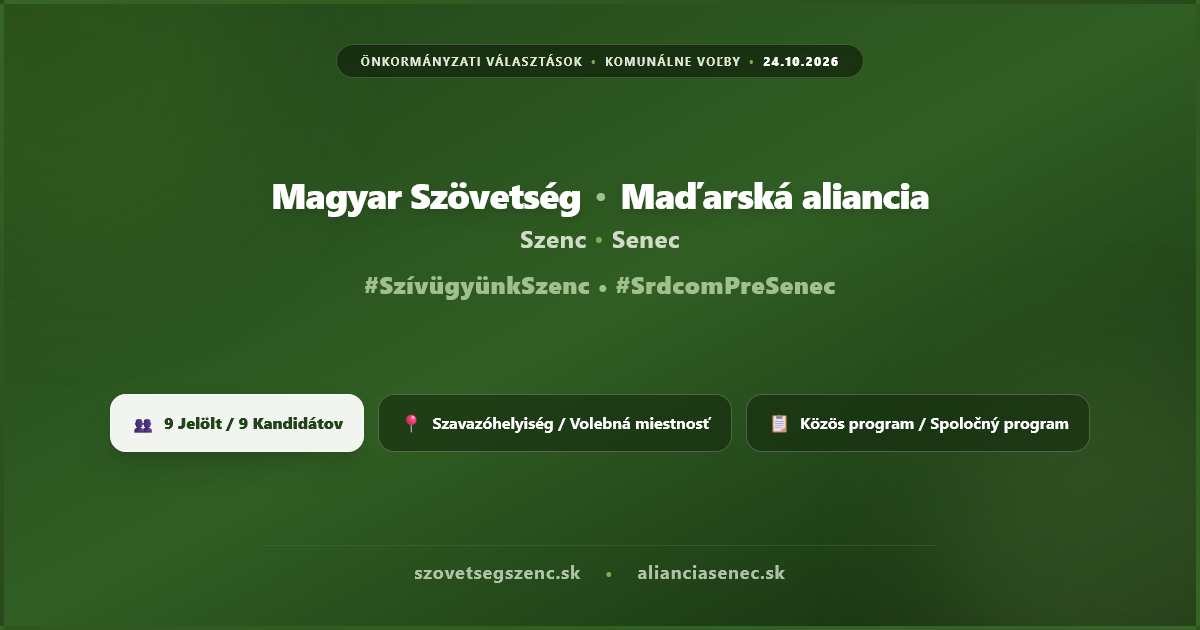
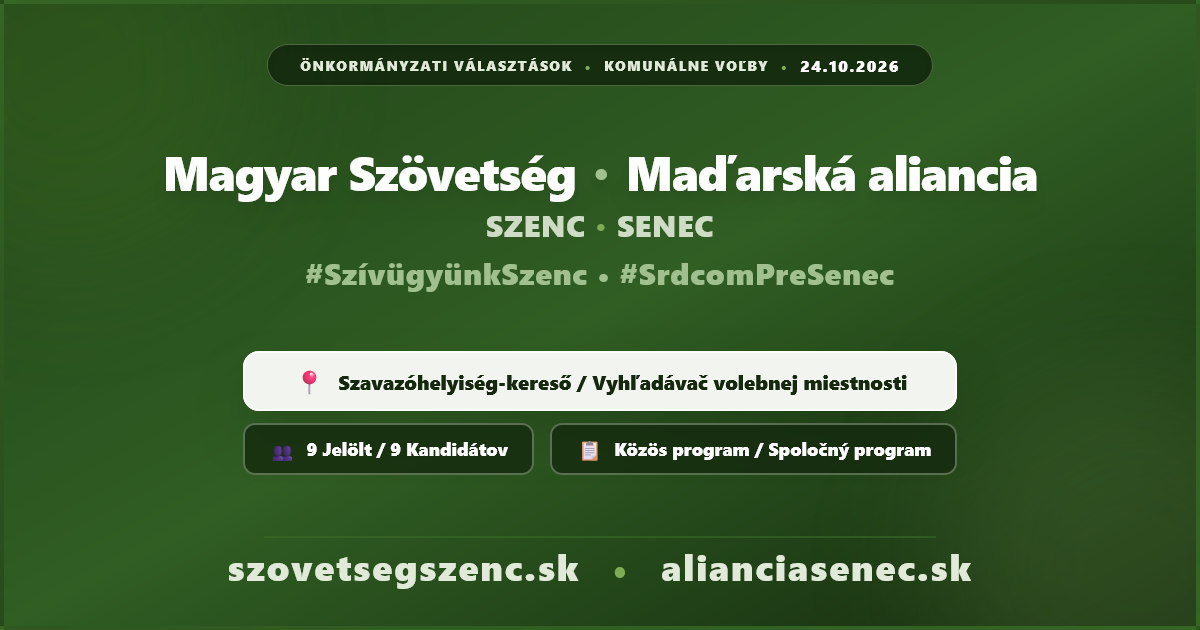
og image

diff --git a/og-banner.html b/og-banner.html
@@ -36,50 +36,57 @@
 </head>
 <body class="bg-slate-900 min-h-screen flex items-center justify-center p-4">
 
-<!-- 1200x630 pixel méretű Facebook OG kártya -->
-<div id="og-card" class="w-[1200px] h-[630px] bg-gradient-to-br from-emerald-900 via-emerald-800 to-emerald-950 text-white p-10 flex flex-col justify-between items-center text-center shadow-2xl relative overflow-hidden font-sans border-4 border-emerald-700/50 shrink-0">
+<!-- 1200x630 OG Kártya - Mobilon és Weben is tökéletesen olvasható elrendezés -->
+<div id="og-card" class="w-[1200px] h-[630px] bg-gradient-to-br from-emerald-900 via-emerald-800 to-emerald-950 text-white px-16 py-10 flex flex-col justify-between items-center text-center shadow-2xl relative overflow-hidden font-sans border-4 border-emerald-700/50 shrink-0">
 
     <!-- Háttér díszítő effektek -->
     <div class="absolute -top-32 -left-32 w-96 h-96 bg-emerald-500/20 rounded-full blur-3xl pointer-events-none"></div>
     <div class="absolute -bottom-32 -right-32 w-96 h-96 bg-emerald-400/20 rounded-full blur-3xl pointer-events-none"></div>
 
-    <!-- Felső jelvény / Dátum (Kétnyelvű) -->
-    <div class="bg-emerald-950/80 border border-emerald-300/30 px-6 py-2 rounded-full text-emerald-100 font-bold text-xs tracking-widest uppercase shadow-inner z-10 flex items-center gap-2">
+    <!-- Felső jelvény / Dátum -->
+    <div class="bg-emerald-950/90 border border-emerald-300/40 px-8 py-2 rounded-full text-emerald-100 font-extrabold text-sm tracking-widest uppercase shadow-inner z-10 flex items-center gap-3">
         <span>ÖNKORMÁNYZATI VÁLASZTÁSOK</span>
         <span class="text-emerald-400">&bull;</span>
         <span>KOMUNÁLNE VOĽBY</span>
         <span class="text-emerald-400">&bull;</span>
-        <span class="text-white font-extrabold">24.10.2026</span>
+        <span class="text-white font-black text-base">24.10.2026</span>
     </div>
 
-    <!-- Főcím & Szlogen (Kétnyelvű) -->
-    <div class="space-y-1.5 max-w-5xl z-10">
-        <h1 class="text-4xl font-black text-white tracking-tight drop-shadow-lg leading-tight">
+    <!-- Főcím & Szlogen (NAGY BETŰKMÉRET) -->
+    <div class="space-y-2 max-w-4xl z-10">
+        <h1 class="text-5xl font-black text-white tracking-tight drop-shadow-xl leading-none">
             Magyar Szövetség <span class="text-emerald-300 font-light mx-1">&bull;</span> Maďarská aliancia
         </h1>
-        <p class="text-2xl font-bold text-emerald-100/90 tracking-wide">
-            Szenc <span class="text-emerald-400 font-normal">&bull;</span> Senec
+        <p class="text-3xl font-black text-emerald-100/90 tracking-wide pt-1">
+            SZENC <span class="text-emerald-400 font-normal">&bull;</span> SENEC
         </p>
-        <p class="text-2xl font-black text-emerald-300 tracking-wide pt-2">
+        <p class="text-3xl font-black text-emerald-300 tracking-wide pt-1">
             #SzívügyünkSzenc &bull; #SrdcomPreSenec
         </p>
     </div>
 
-    <!-- Kiemelt funkció kártyák (Egysoros, Kétnyelvű) -->
-    <div class="flex items-center justify-center gap-3.5 w-full max-w-5xl z-10">
-        <div class="bg-emerald-50 text-emerald-900 font-black text-base px-5 py-3.5 rounded-2xl shadow-xl flex items-center gap-2 border border-white/40 whitespace-nowrap">
-            <span class="text-lg">👥</span> 9 Jelölt / 9 Kandidátov
+    <!-- Funkciók (2 soros elrendezés -> Nagy betűk + Biztonságos margó) -->
+    <div class="flex flex-col gap-3 w-full max-w-4xl z-10 items-center">
+
+        <!-- 1. Sor: Fő funkció kiemelve (Fehér alapon, óriási szöveg) -->
+        <div class="bg-emerald-50 text-emerald-950 font-black text-xl px-12 py-3 rounded-2xl shadow-2xl flex items-center justify-center gap-3 border-2 border-white/80 w-auto whitespace-nowrap">
+            <span class="text-2xl">📍</span> Szavazóhelyiség-kereső / Vyhľadávač volebnej miestnosti
         </div>
-        <div class="bg-emerald-950/60 text-white font-bold text-base px-5 py-3.5 rounded-2xl border border-emerald-200/30 backdrop-blur-md flex items-center gap-2 whitespace-nowrap">
-            <span class="text-lg">📍</span> Szavazóhelyiség / Volebná miestnosť
+
+        <!-- 2. Sor: Jelöltek + Program egymás mellett -->
+        <div class="flex items-center justify-center gap-4 w-full">
+            <div class="bg-emerald-950/80 text-white font-black text-lg px-6 py-2.5 rounded-xl border-2 border-emerald-200/40 backdrop-blur-md flex items-center gap-2.5 whitespace-nowrap">
+                <span class="text-xl">👥</span> 9 Jelölt / 9 Kandidátov
+            </div>
+            <div class="bg-emerald-950/80 text-white font-black text-lg px-6 py-2.5 rounded-xl border-2 border-emerald-200/40 backdrop-blur-md flex items-center gap-2.5 whitespace-nowrap">
+                <span class="text-xl">📋</span> Közös program / Spoločný program
+            </div>
         </div>
-        <div class="bg-emerald-950/60 text-white font-bold text-base px-5 py-3.5 rounded-2xl border border-emerald-200/30 backdrop-blur-md flex items-center gap-2 whitespace-nowrap">
-            <span class="text-lg">📋</span> Közös program / Spoločný program
-        </div>
+
     </div>
 
-    <!-- Lábléc / Domainek -->
-    <div class="text-emerald-200/90 text-lg font-bold tracking-wider pt-3 border-t border-emerald-700/60 w-full max-w-2xl flex justify-center gap-6 z-10">
+    <!-- Lábléc / Domainek (Óriási betűkkel) -->
+    <div class="text-emerald-100 text-4xl font-black tracking-wider pt-2 border-t-2 border-emerald-700/60 w-full max-w-2xl flex justify-center gap-8 z-10">
         <span>szovetsegszenc.sk</span>
         <span class="text-emerald-400">&bull;</span>
         <span>alianciasenec.sk</span>
